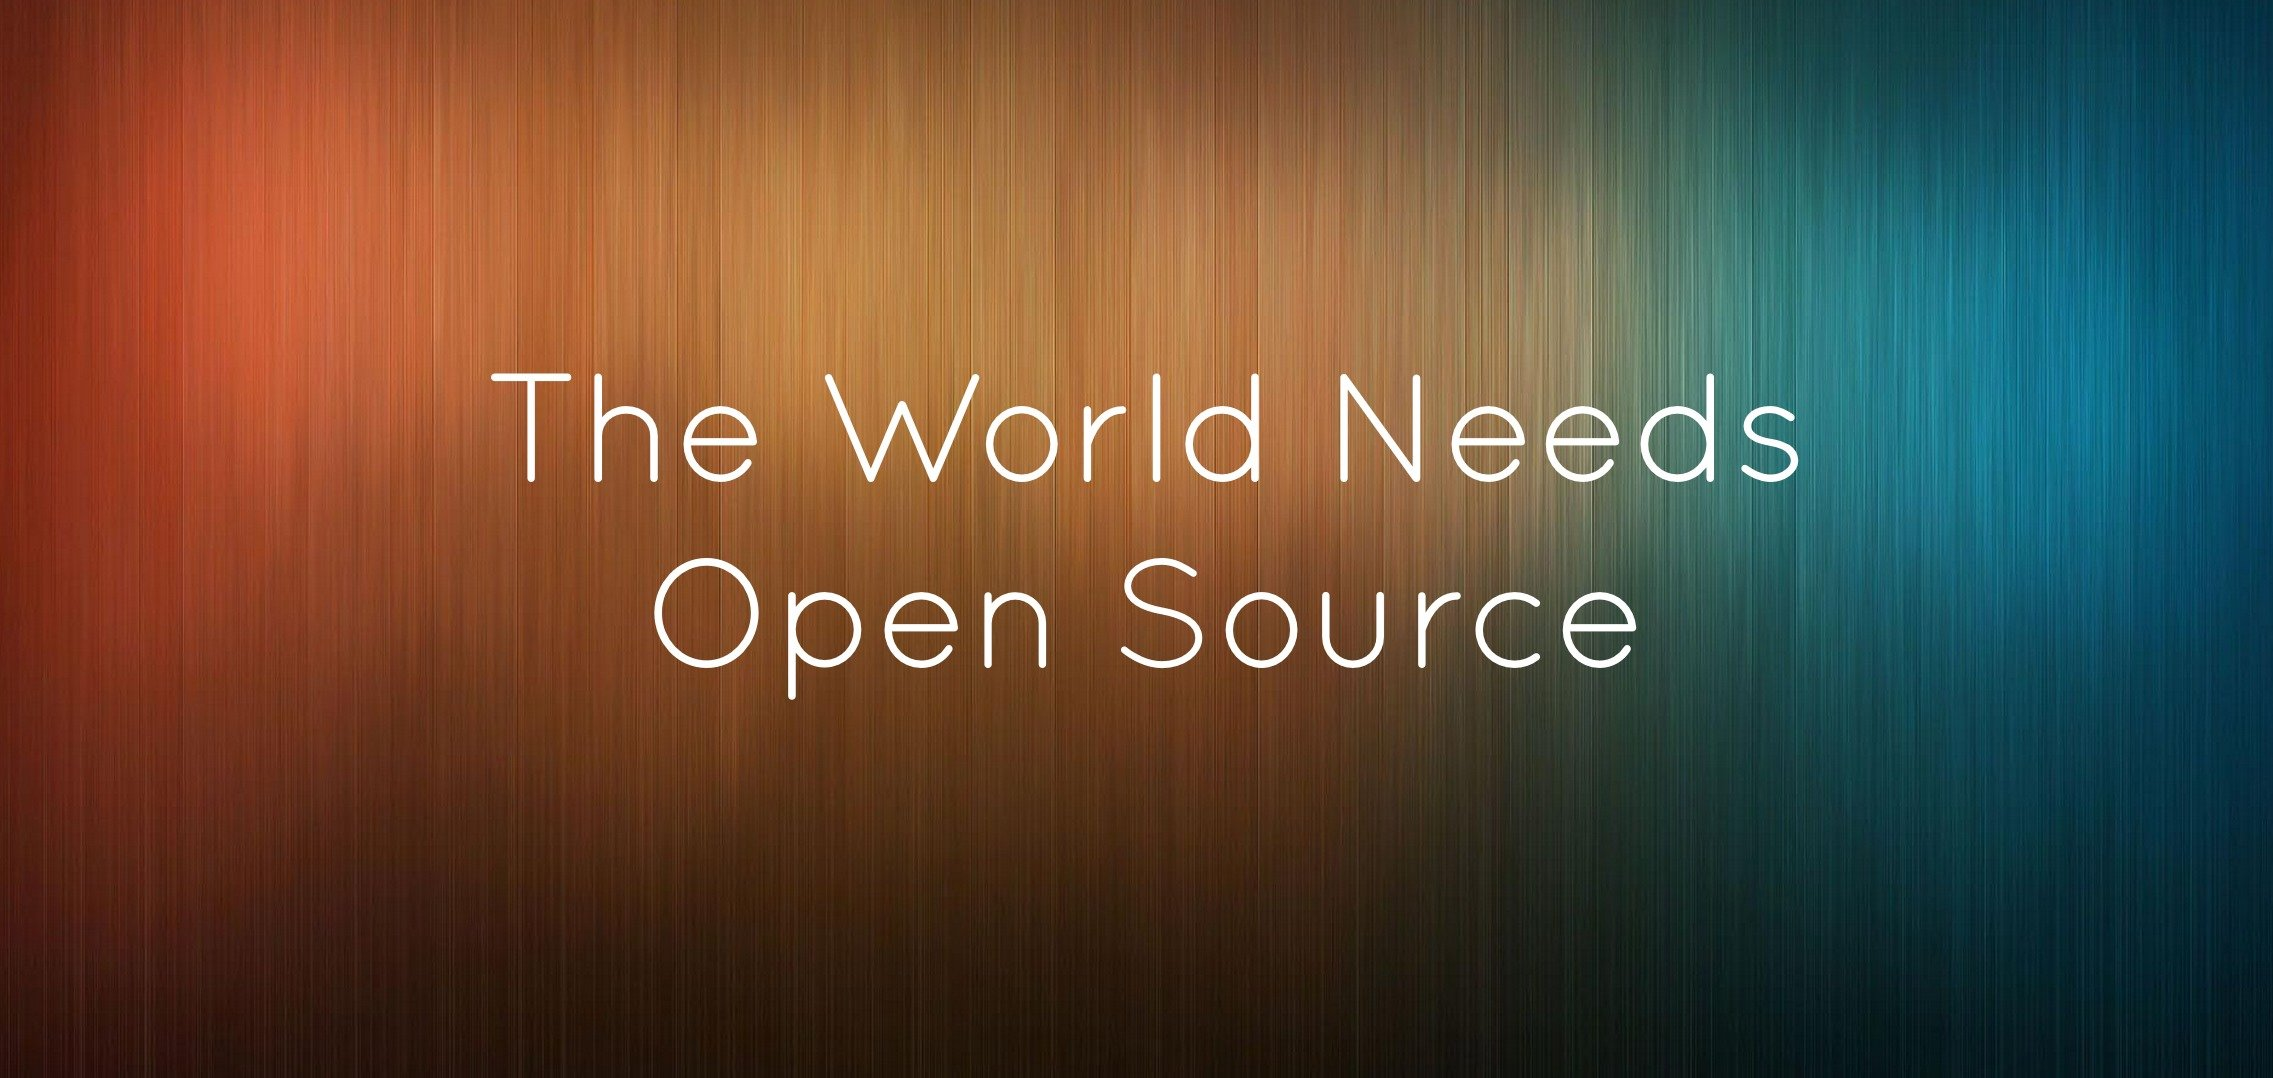
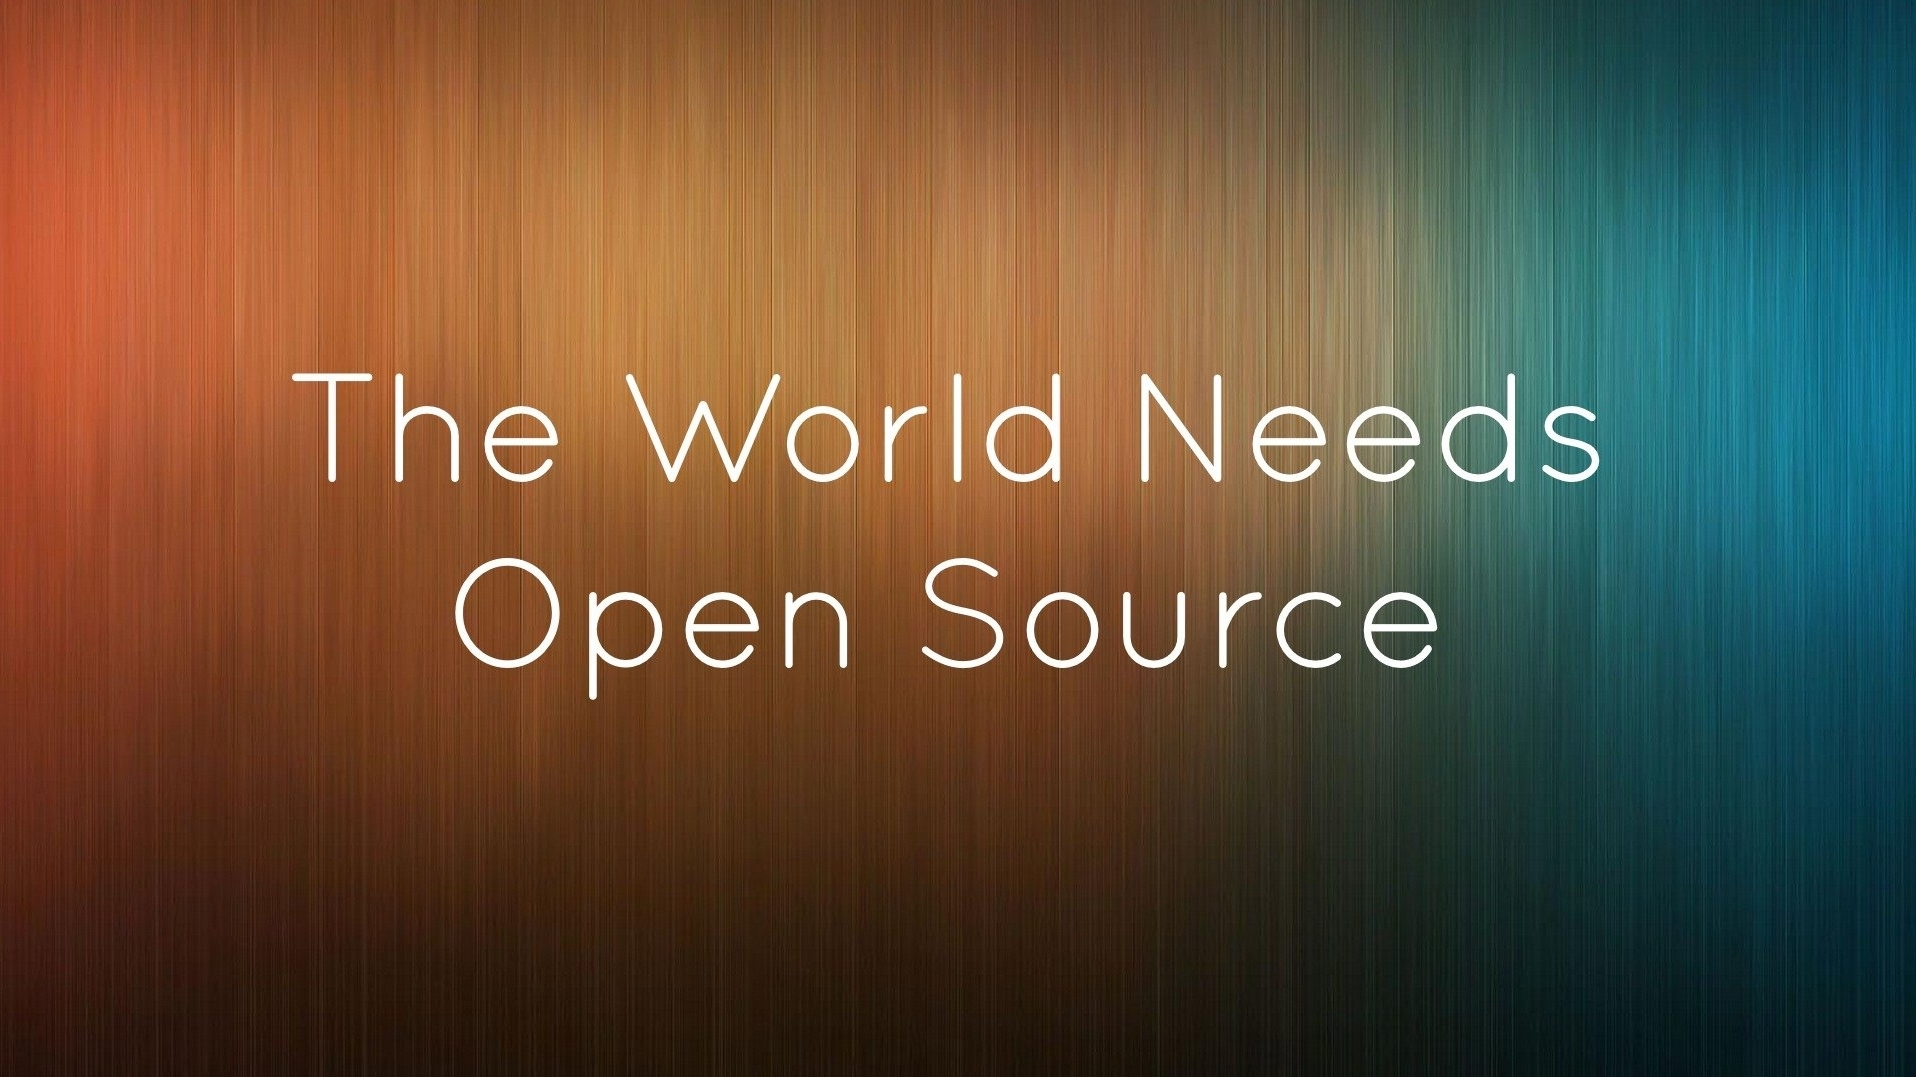
Tweaks

diff --git a/app/templates/dbsearch.component.html b/app/templates/dbsearch.component.html
@@ -1,34 +1,36 @@
-<p-tabView>
-    <p-tabPanel header="Full Matches">
-        <p-tabView>
-            <p-tabPanel header="Companies">
-                <my-company-search [tokens]="queries" [or_search]="false"></my-company-search>
-            </p-tabPanel>
-            <p-tabPanel header="Projects">
-                <my-project-search [tokens]="queries" [or_search]="false"></my-project-search>
-            </p-tabPanel>
-            <p-tabPanel header="Contributors">
-                <my-contributor-search [tokens]="queries" [or_search]="false"></my-contributor-search>
-            </p-tabPanel>
-            <p-tabPanel header="Languages">
-                <my-language-search [tokens]="queries" [or_search]="false"></my-language-search>
-            </p-tabPanel>
-        </p-tabView>
-    </p-tabPanel>
-    <p-tabPanel header="Partial Matches">
-        <p-tabView>
-            <p-tabPanel header="Companies">
-                <my-company-search [tokens]="queries" [or_search]="true"></my-company-search>
-            </p-tabPanel>
-            <p-tabPanel header="Projects">
-                <my-project-search [tokens]="queries" [or_search]="true"></my-project-search>
-            </p-tabPanel>
-            <p-tabPanel header="Contributors">
-                <my-contributor-search [tokens]="queries" [or_search]="true"></my-contributor-search>
-            </p-tabPanel>
-            <p-tabPanel header="Languages">
-                <my-language-search [tokens]="queries" [or_search]="true"></my-language-search>
-            </p-tabPanel>
-        </p-tabView>
-    </p-tabPanel>
-</p-tabView>
+<div class="container">
+    <p-tabView>
+        <p-tabPanel header="Full Matches">
+            <p-tabView>
+                <p-tabPanel header="Companies">
+                    <my-company-search [tokens]="queries" [or_search]="false"></my-company-search>
+                </p-tabPanel>
+                <p-tabPanel header="Projects">
+                    <my-project-search [tokens]="queries" [or_search]="false"></my-project-search>
+                </p-tabPanel>
+                <p-tabPanel header="Contributors">
+                    <my-contributor-search [tokens]="queries" [or_search]="false"></my-contributor-search>
+                </p-tabPanel>
+                <p-tabPanel header="Languages">
+                    <my-language-search [tokens]="queries" [or_search]="false"></my-language-search>
+                </p-tabPanel>
+            </p-tabView>
+        </p-tabPanel>
+        <p-tabPanel header="Partial Matches">
+            <p-tabView>
+                <p-tabPanel header="Companies">
+                    <my-company-search [tokens]="queries" [or_search]="true"></my-company-search>
+                </p-tabPanel>
+                <p-tabPanel header="Projects">
+                    <my-project-search [tokens]="queries" [or_search]="true"></my-project-search>
+                </p-tabPanel>
+                <p-tabPanel header="Contributors">
+                    <my-contributor-search [tokens]="queries" [or_search]="true"></my-contributor-search>
+                </p-tabPanel>
+                <p-tabPanel header="Languages">
+                    <my-language-search [tokens]="queries" [or_search]="true"></my-language-search>
+                </p-tabPanel>
+            </p-tabView>
+        </p-tabPanel>
+    </p-tabView>
+</div>

diff --git a/app/css/app.css b/app/css/app.css
@@ -12,7 +12,6 @@ body {
 
 .carousel-inner {
   height: 100%;
-  width: 100%;
 }
 
 /* Background images are set within the HTML using inline CSS, not here */
@@ -21,11 +20,10 @@ body {
   width: 100%;
   height: 100%;
   background-position: center;
-  -webkit-background-size: 100% 80%;
-  -moz-background-size: 100% 80%;
-  background-size: 100% 80%;
-  background-repeat: no-repeat;
-  -o-background-size: 100% 80%;
+  -webkit-background-size: cover;
+  -moz-background-size: cover;
+  background-size: cover;
+  -o-background-size: cover;
 }
 
 .container {
@@ -85,11 +83,6 @@ b {
   border: 0 !important;
   text-align: center;
 }
-
-.ui-grid-col-1 {
-  width: 7.15% !important;
-}
-
 .ui-carousel {
   padding: 0 !important;
 }
